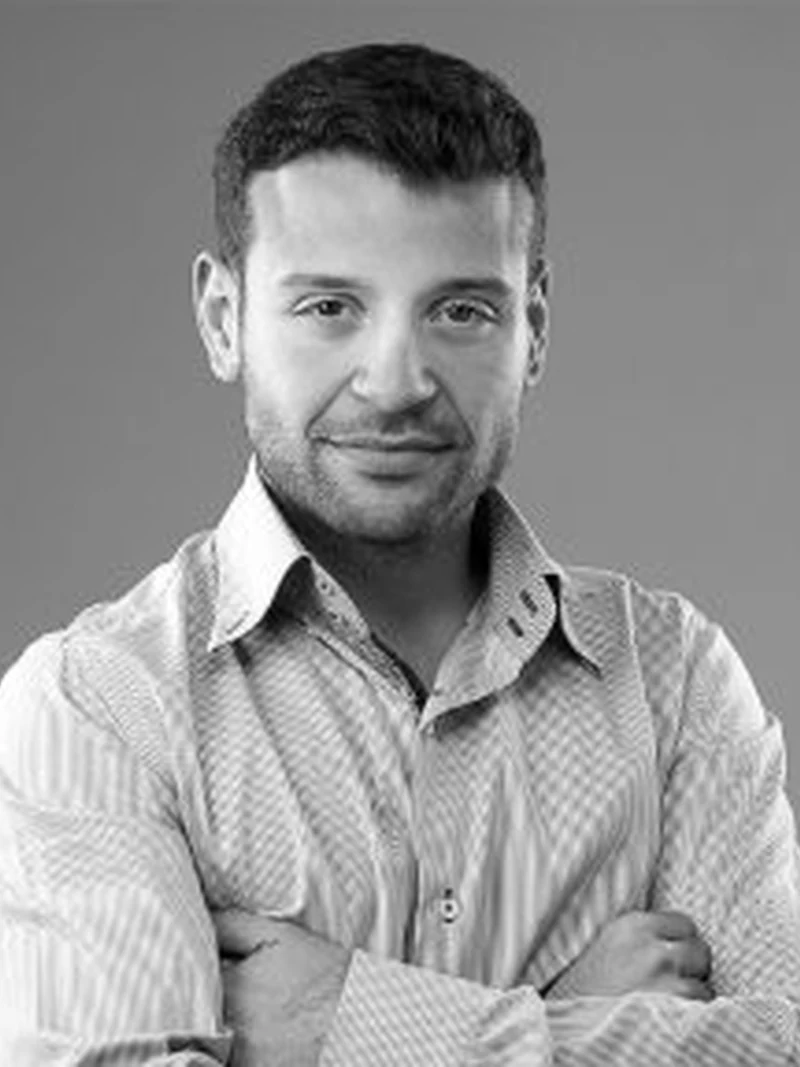
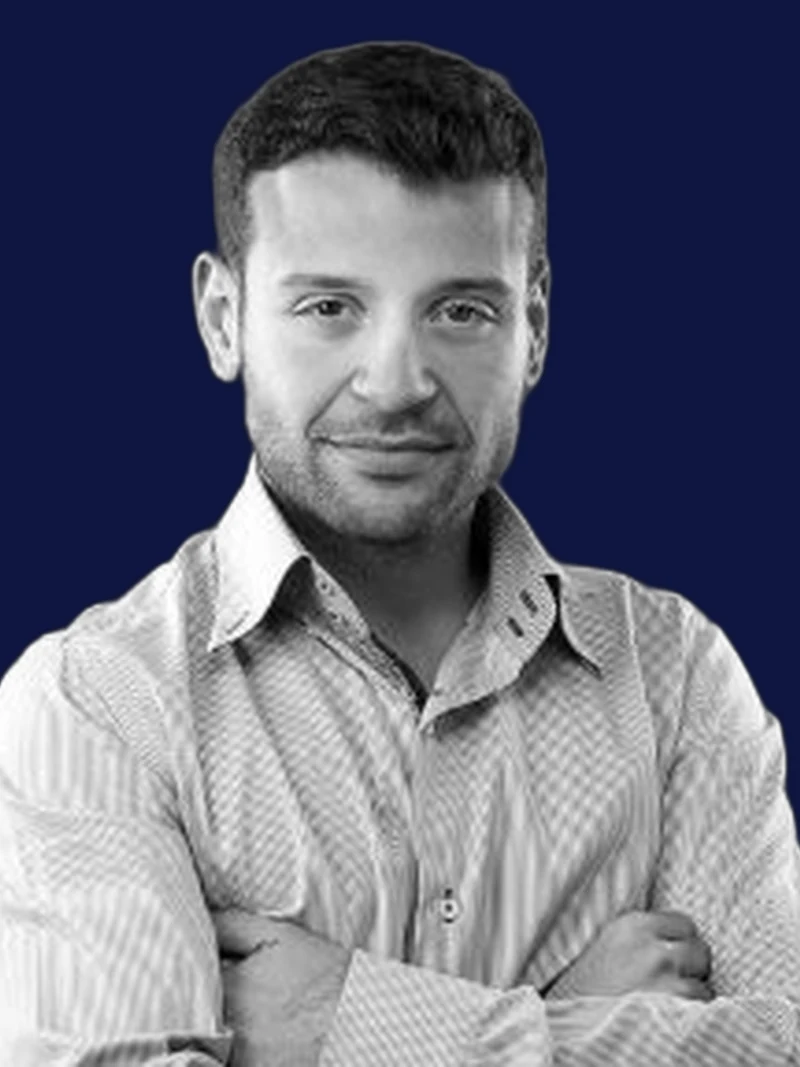
Recortar Tavo sobre fondo azul del sitio + sumar 3 videos de prensa
- Foto de Tavo: segmentacion con rembg y composicion sobre RGB(15,22,65)
  para que matchee el fondo azul del resto de las fotos de crew
- Prensa: sumar 3 videos nuevos (K1Yobyzq8GQ, xy6LAGVYTLY, mHfrtG5Tr0k)
  al principio del grid, para un total de 7

diff --git a/index.html b/index.html
@@ -246,6 +246,15 @@
       <div class="section-divider"></div>
       <div class="press-videos">
         <div class="press-video-item">
+          <iframe src="https://www.youtube.com/embed/K1Yobyzq8GQ" title="Desconectados en los medios" frameborder="0" allow="accelerometer; autoplay; clipboard-write; encrypted-media; gyroscope; picture-in-picture" allowfullscreen loading="lazy"></iframe>
+        </div>
+        <div class="press-video-item">
+          <iframe src="https://www.youtube.com/embed/xy6LAGVYTLY" title="Desconectados en los medios" frameborder="0" allow="accelerometer; autoplay; clipboard-write; encrypted-media; gyroscope; picture-in-picture" allowfullscreen loading="lazy"></iframe>
+        </div>
+        <div class="press-video-item">
+          <iframe src="https://www.youtube.com/embed/mHfrtG5Tr0k" title="Desconectados en los medios" frameborder="0" allow="accelerometer; autoplay; clipboard-write; encrypted-media; gyroscope; picture-in-picture" allowfullscreen loading="lazy"></iframe>
+        </div>
+        <div class="press-video-item">
           <iframe src="https://www.youtube.com/embed/Mj01YxPCmXU" title="Desconectados en los medios" frameborder="0" allow="accelerometer; autoplay; clipboard-write; encrypted-media; gyroscope; picture-in-picture" allowfullscreen loading="lazy"></iframe>
         </div>
         <div class="press-video-item">
